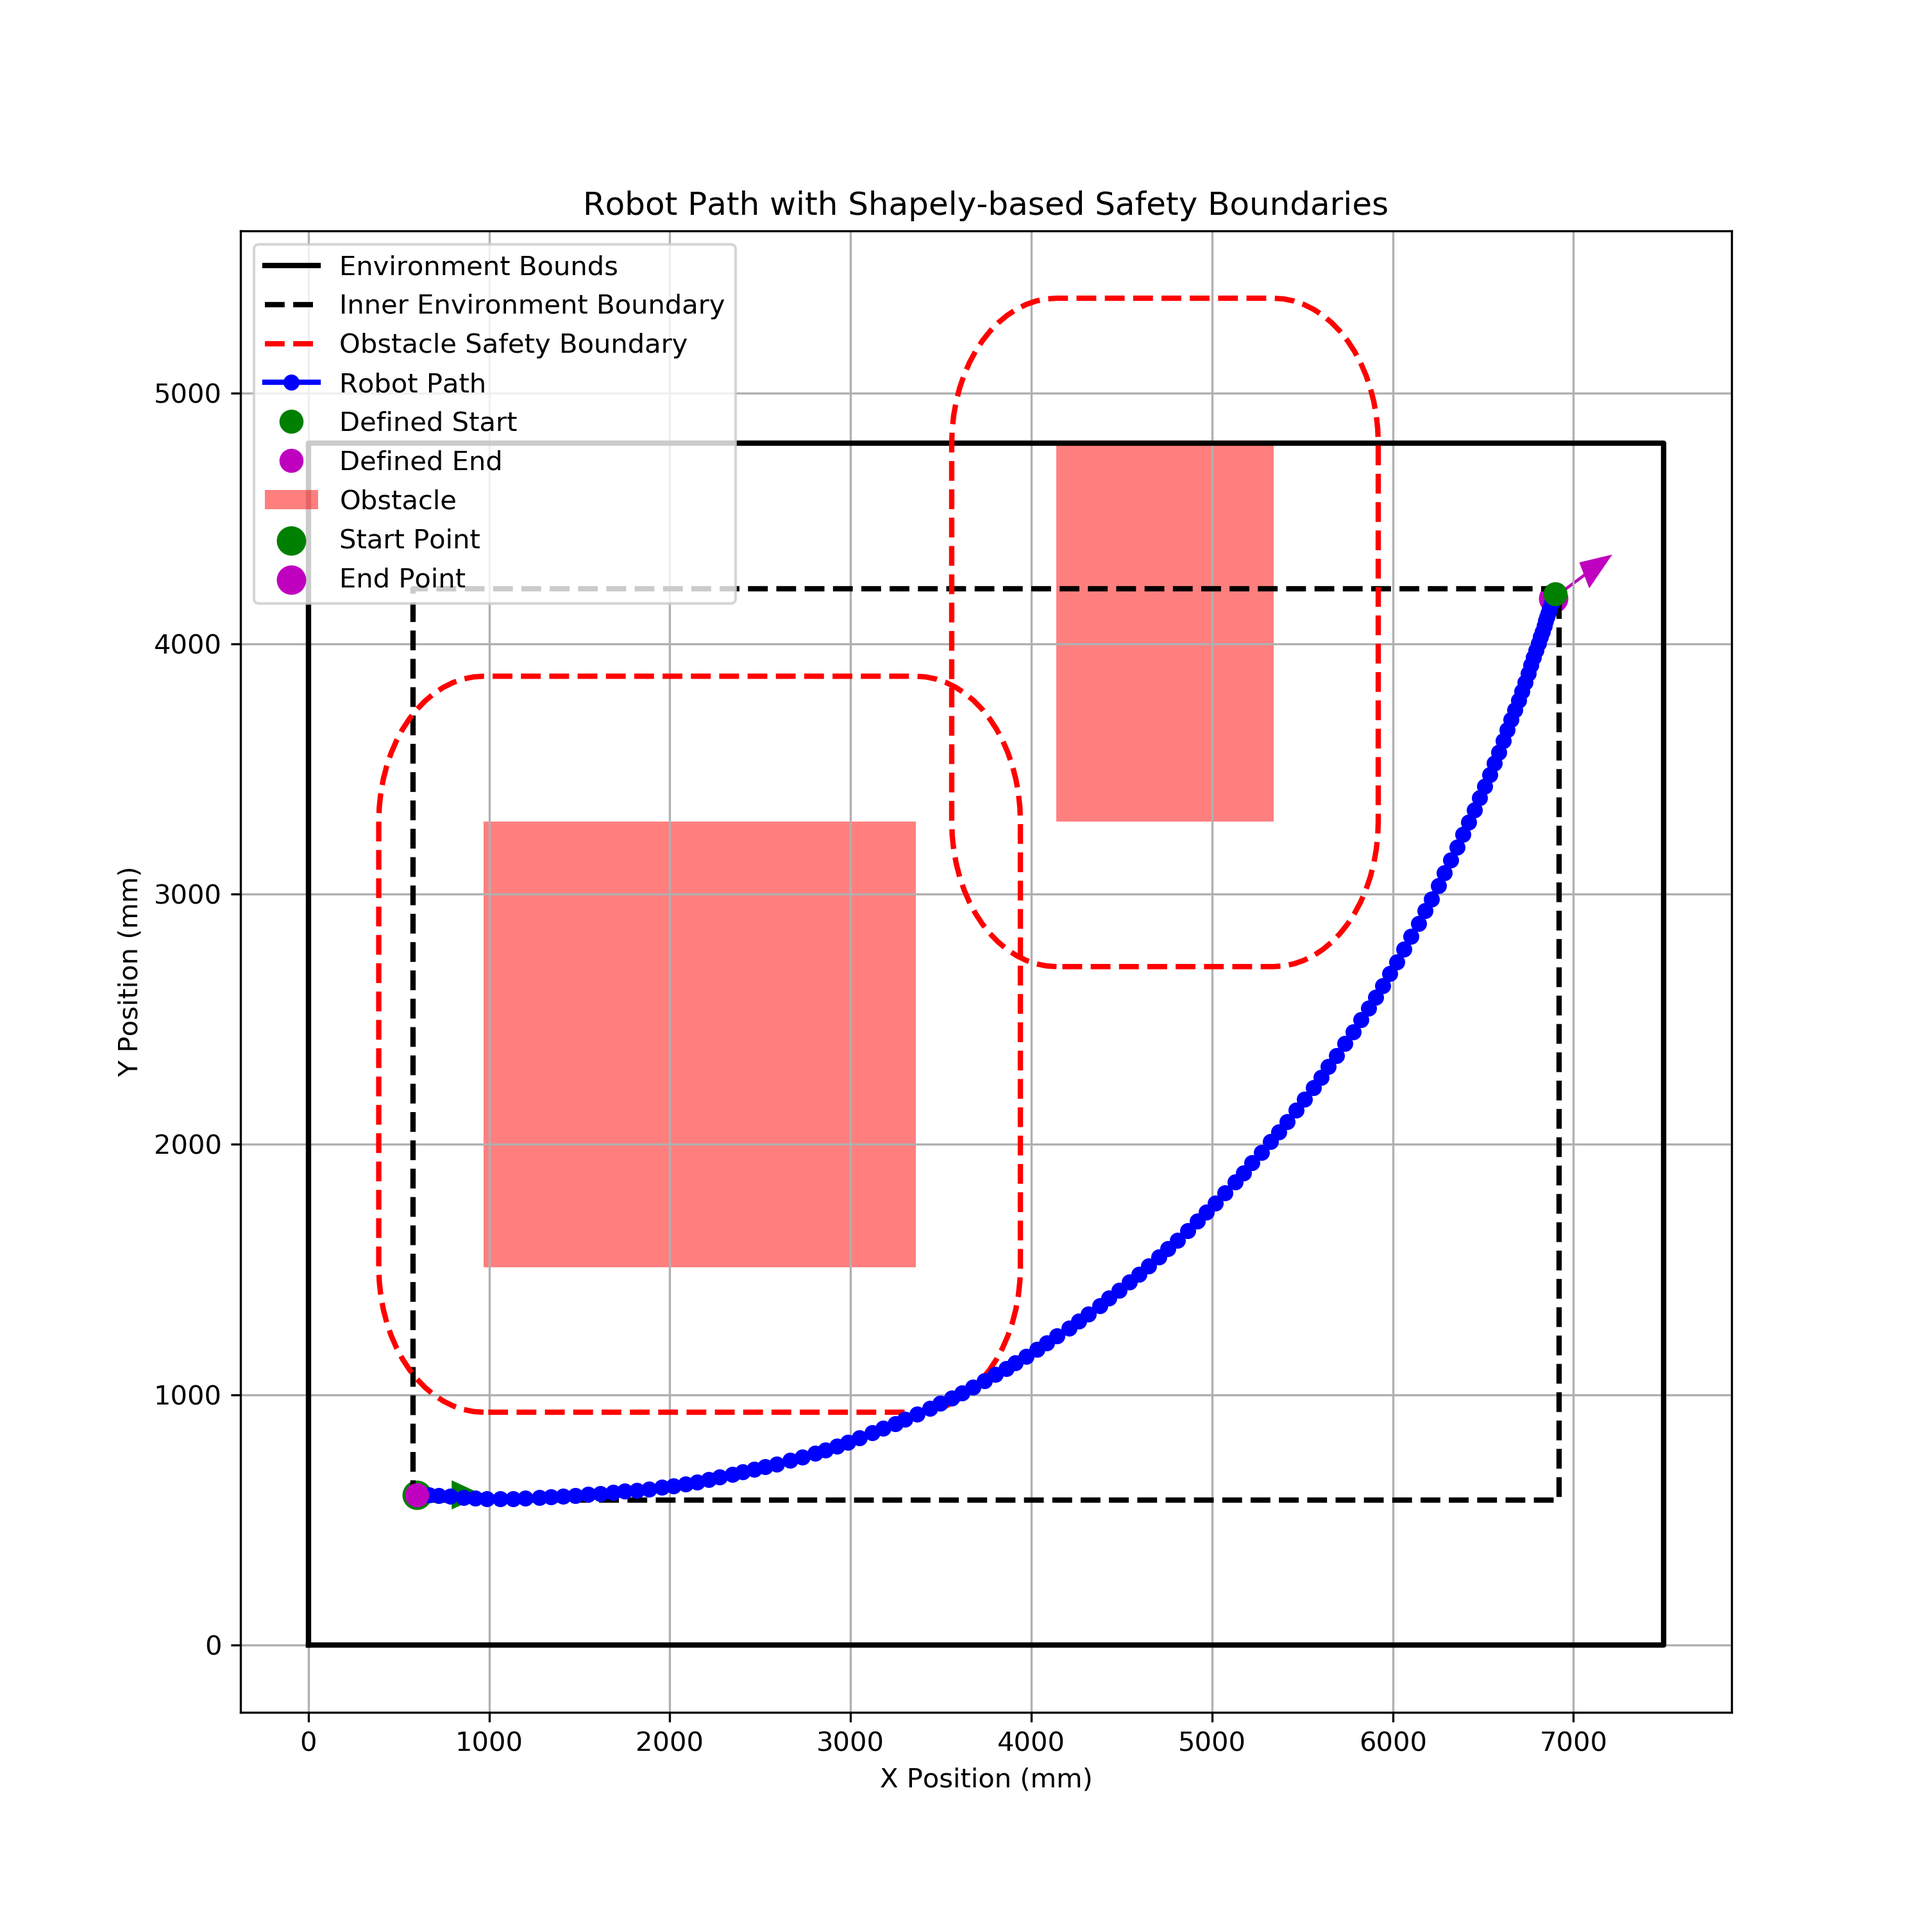
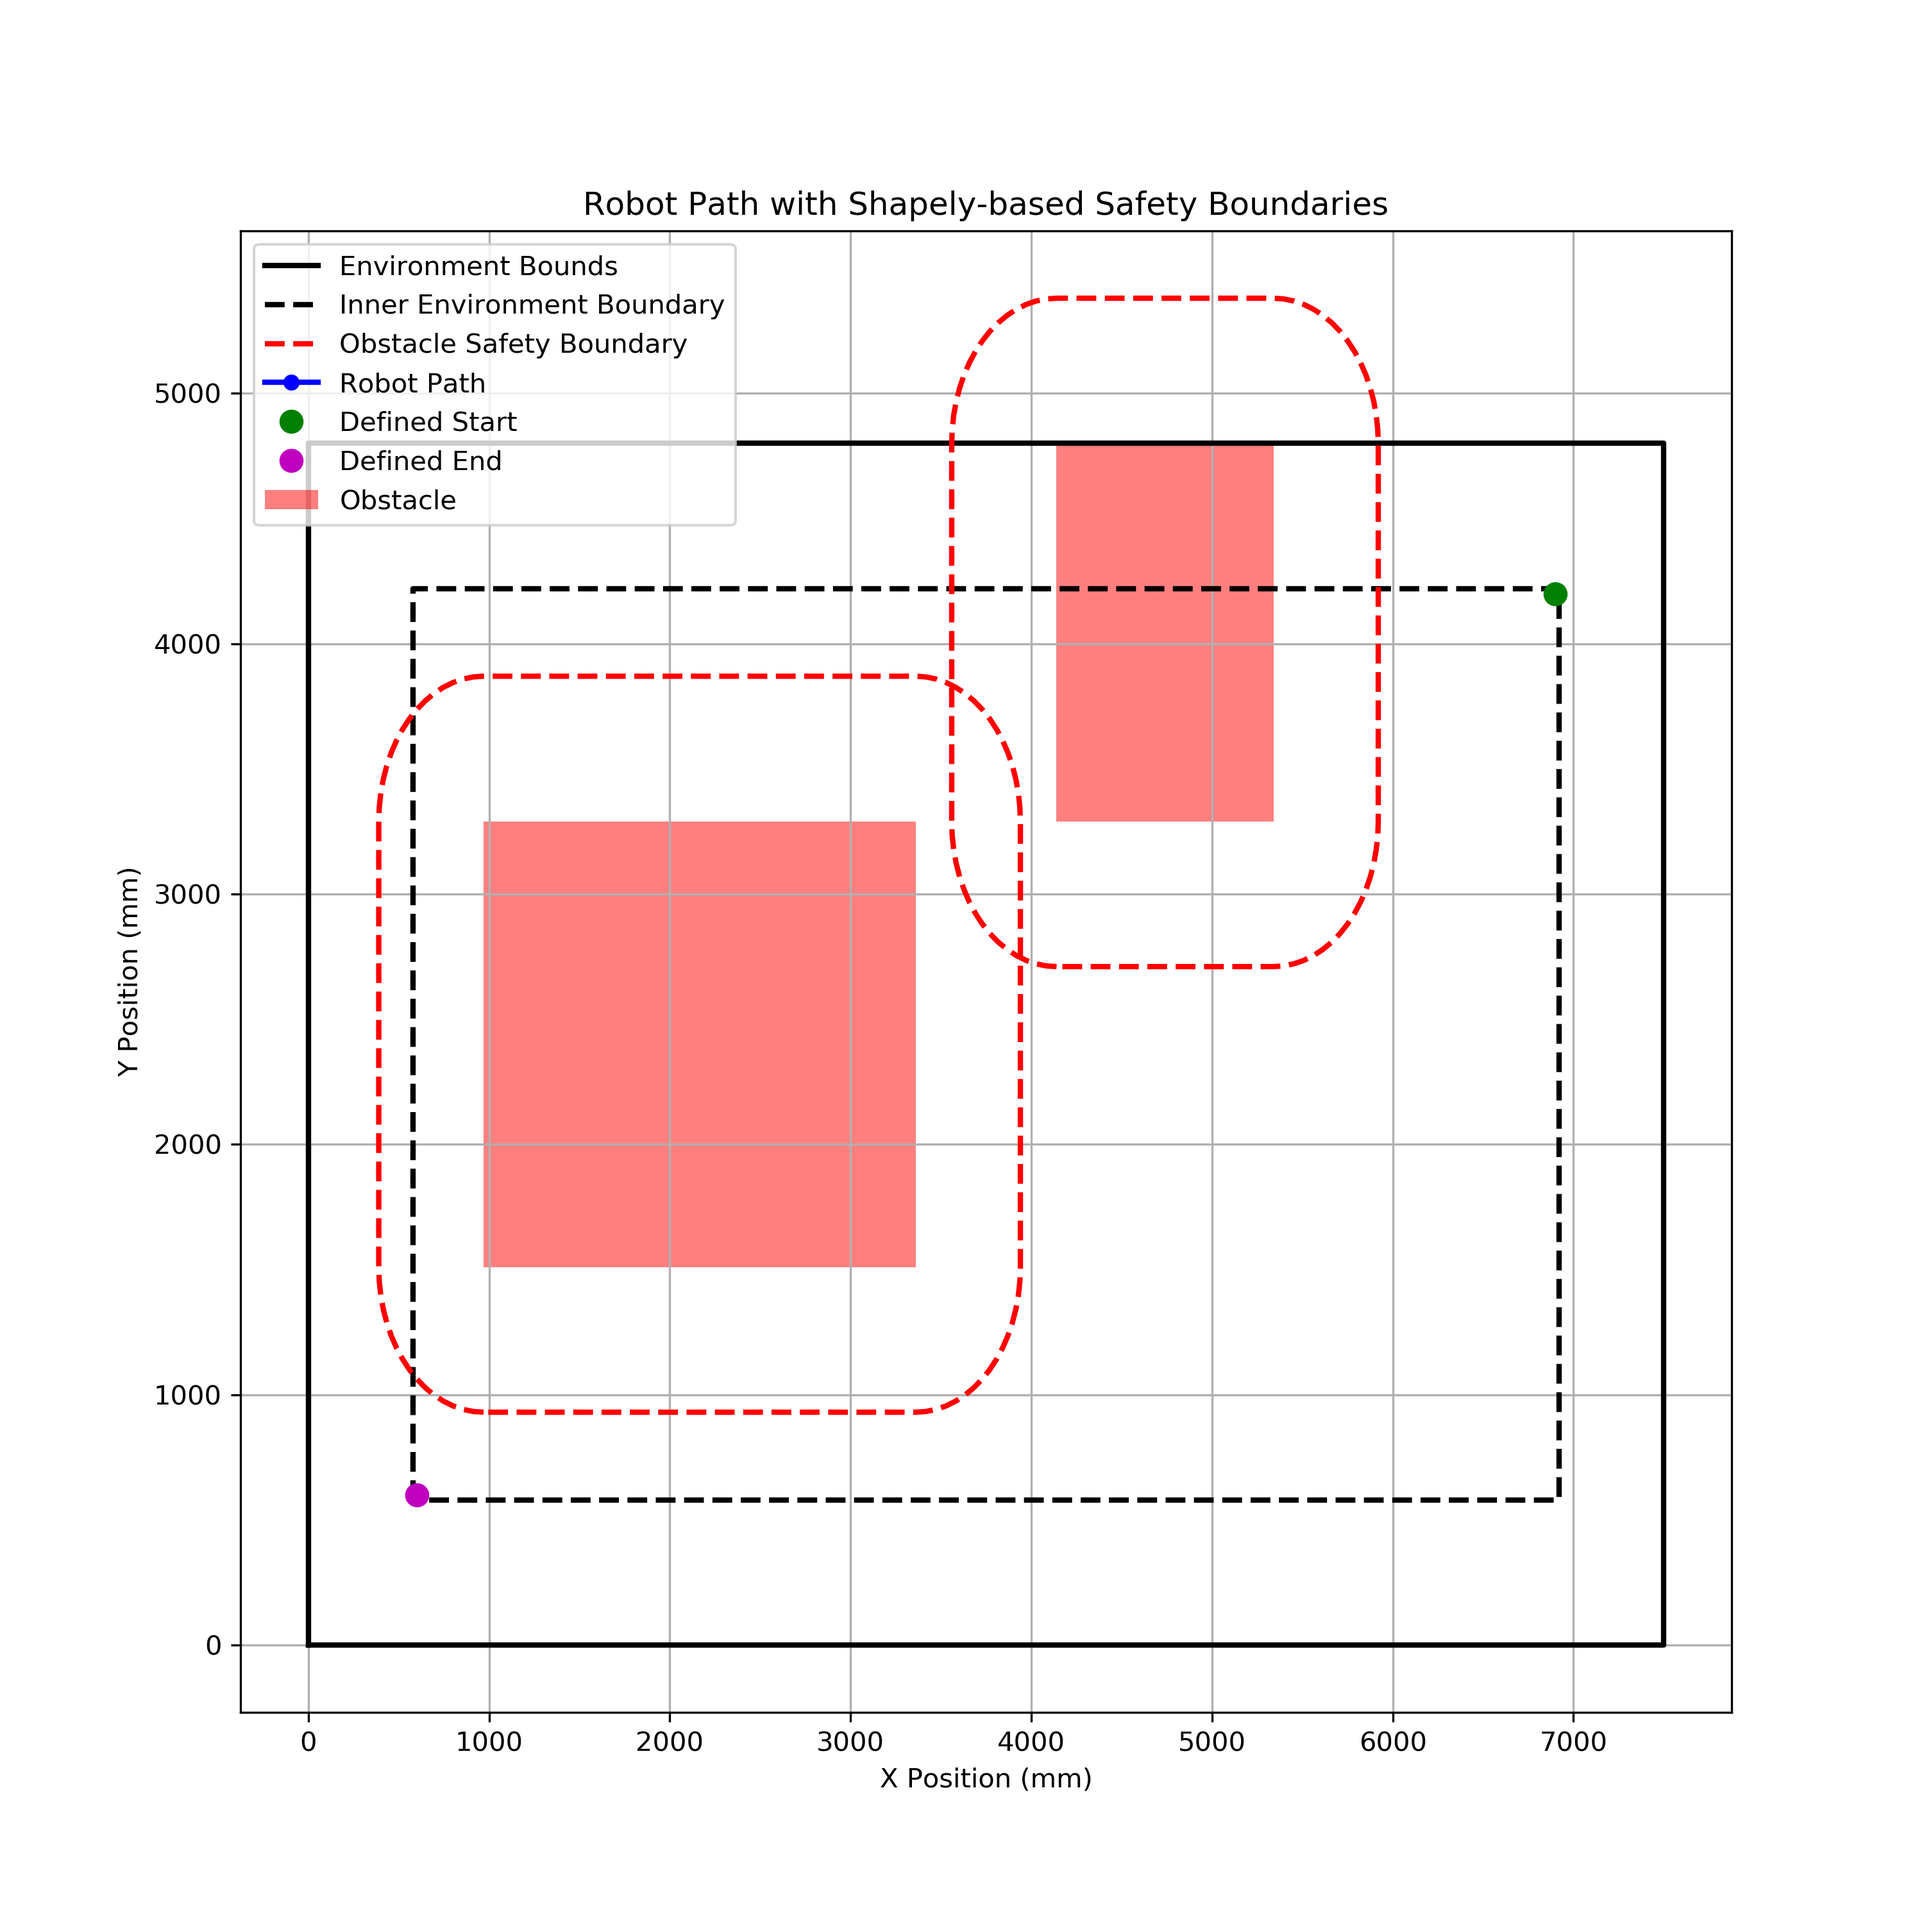
updated code

diff --git a/src/control_stack/src/main.cpp b/src/control_stack/src/main.cpp
@@ -41,10 +41,10 @@ struct Point {
 
 // Bézier curve control points (in mm)
 vector<Point> controlPoints = {
-    {600,600},         // Start
-    {5757.69, 306.81},  // Control point 1
-    {6885.99, 4311.8},  // Control point 2
-    {6900, 4200}         // End
+    {6900, 4200},         // Start
+    {4781.32, 2344.04},  // Control point 1
+    {6395.31, 867.09},  // Control point 2
+    {600,600}         // End
 };
 
 //---------------------------------------------------------
@@ -144,7 +144,7 @@ void computeControlSignals(double targetX, double targetY,
     
     // Proportional controller gains (tunable)
     const double Kp_v = 0.5;  // m/s per m error
-    const double Kp_w = 2.0;  // rad/s per rad error
+    const double Kp_w = 2.5;  // rad/s per rad error
     
     // Compute linear velocity v (convert mm error to m error)
     v = Kp_v * (distanceError / 1000.0);
